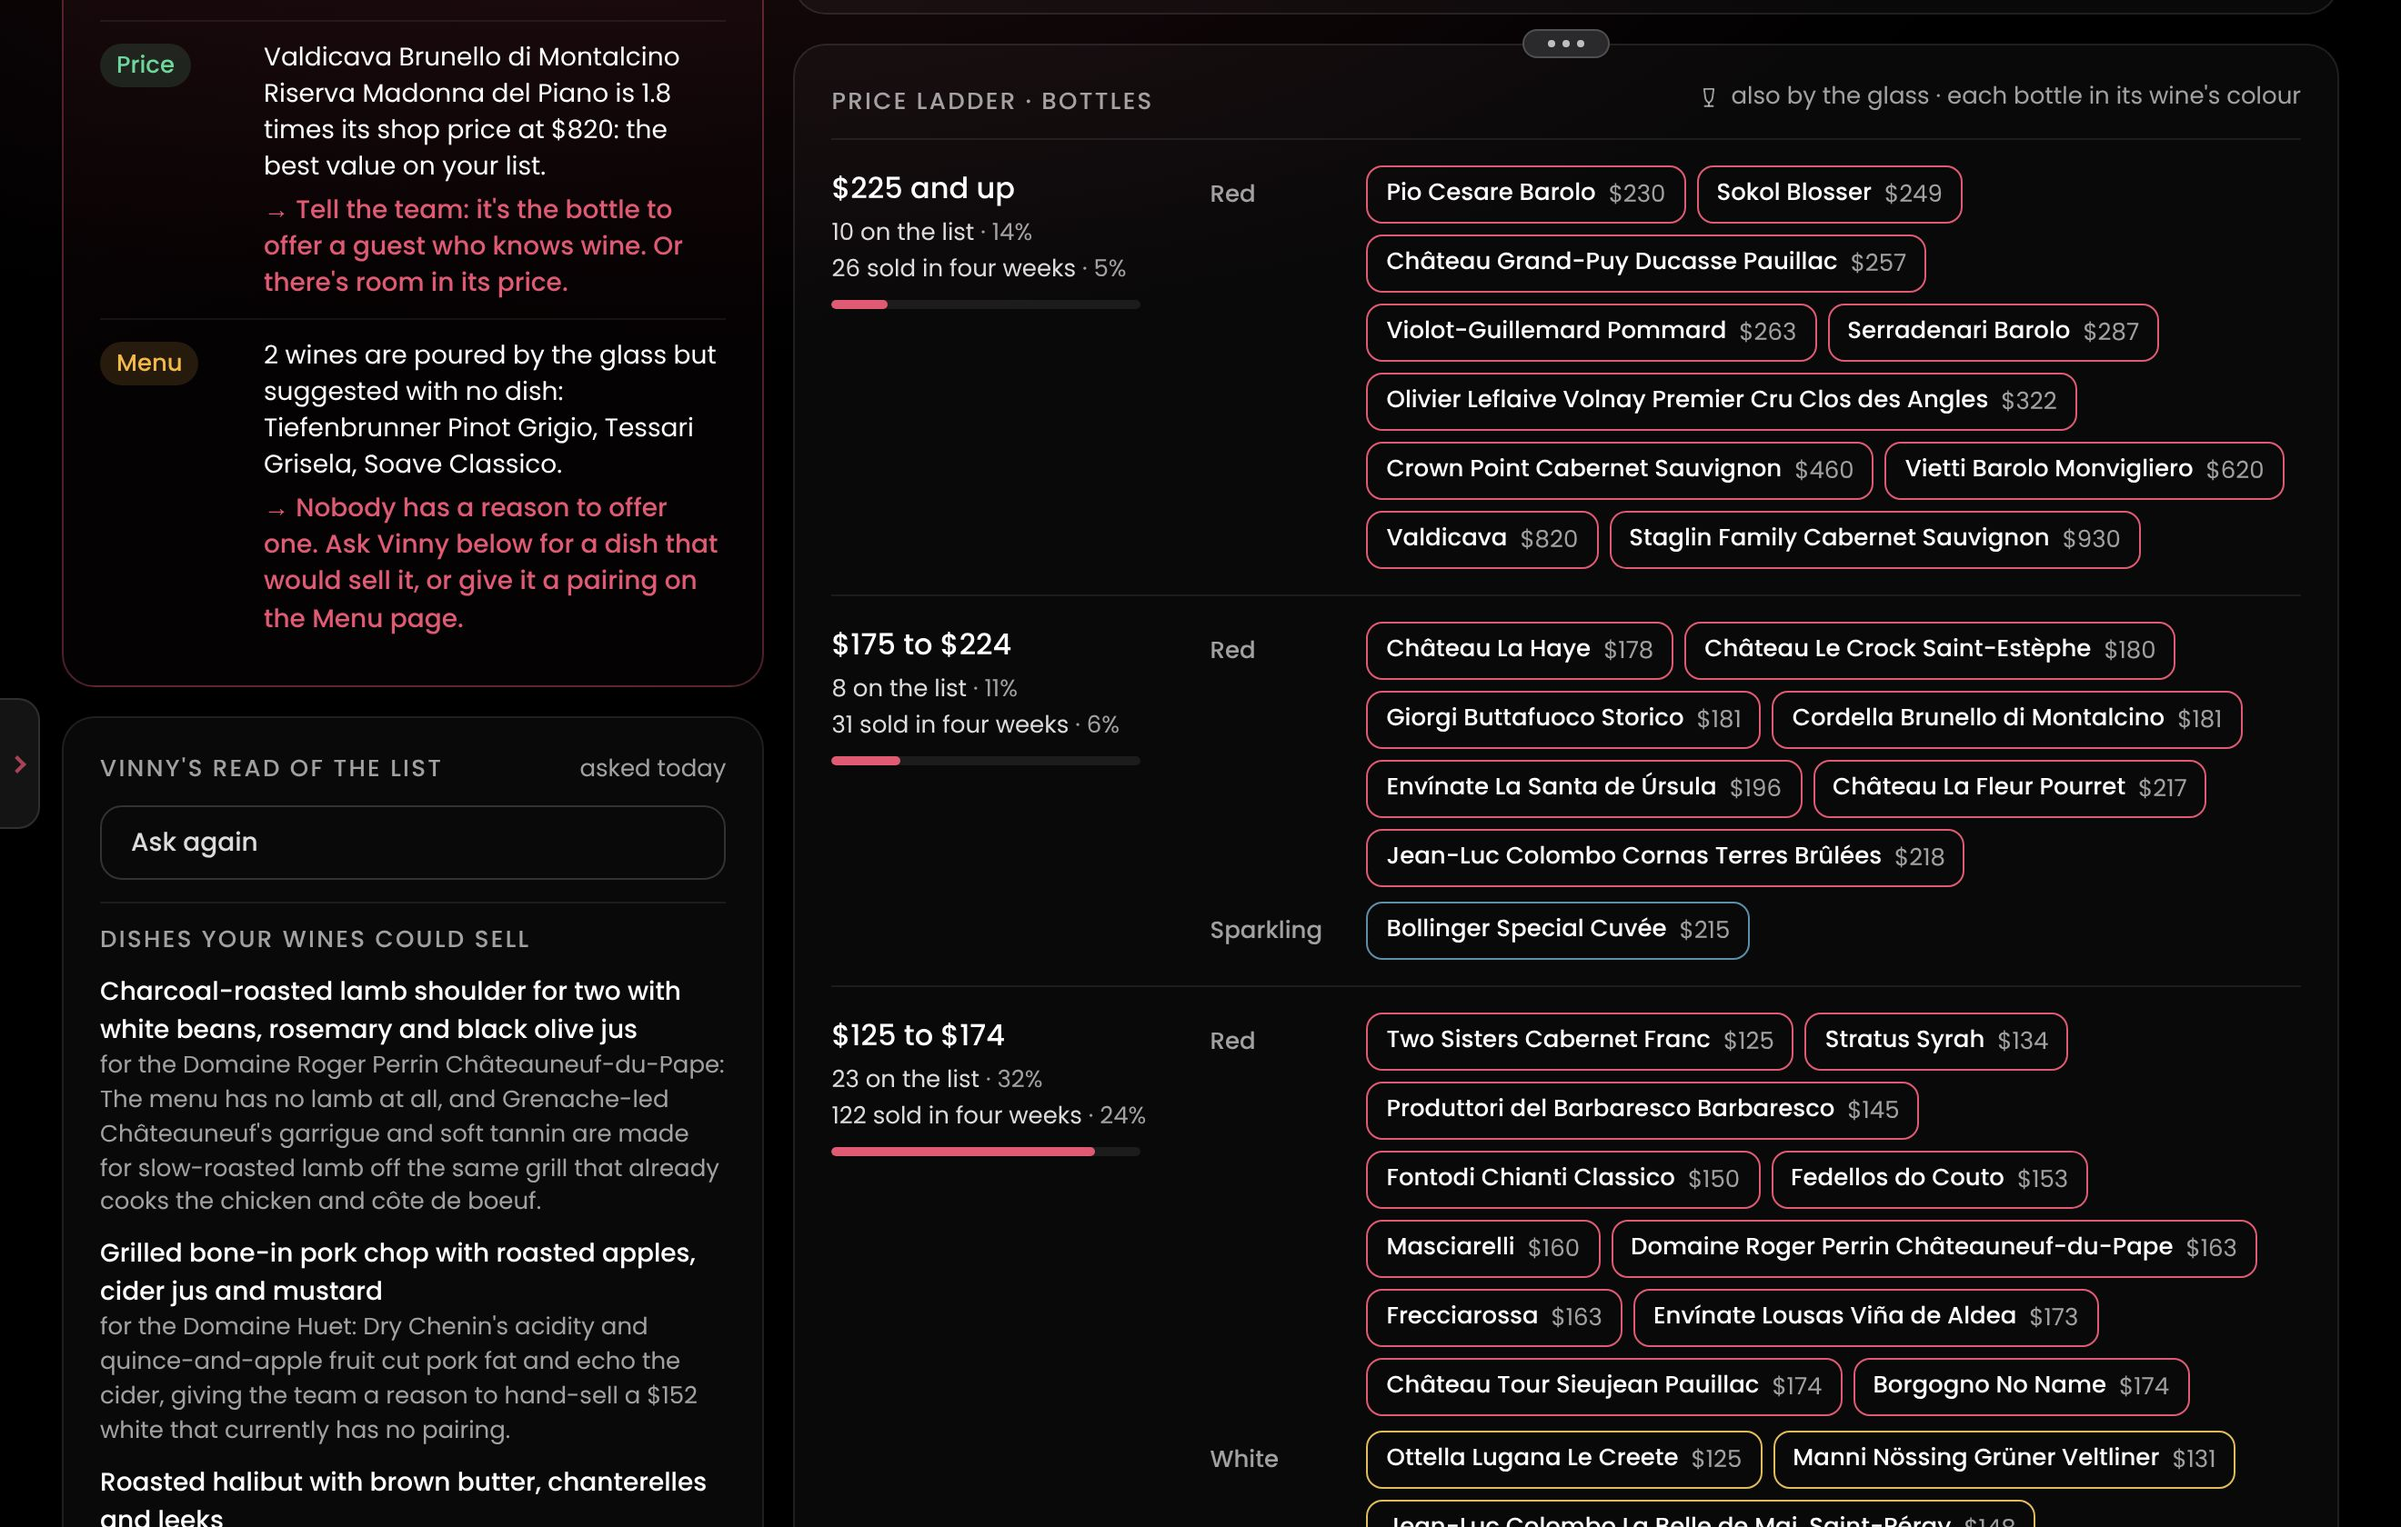
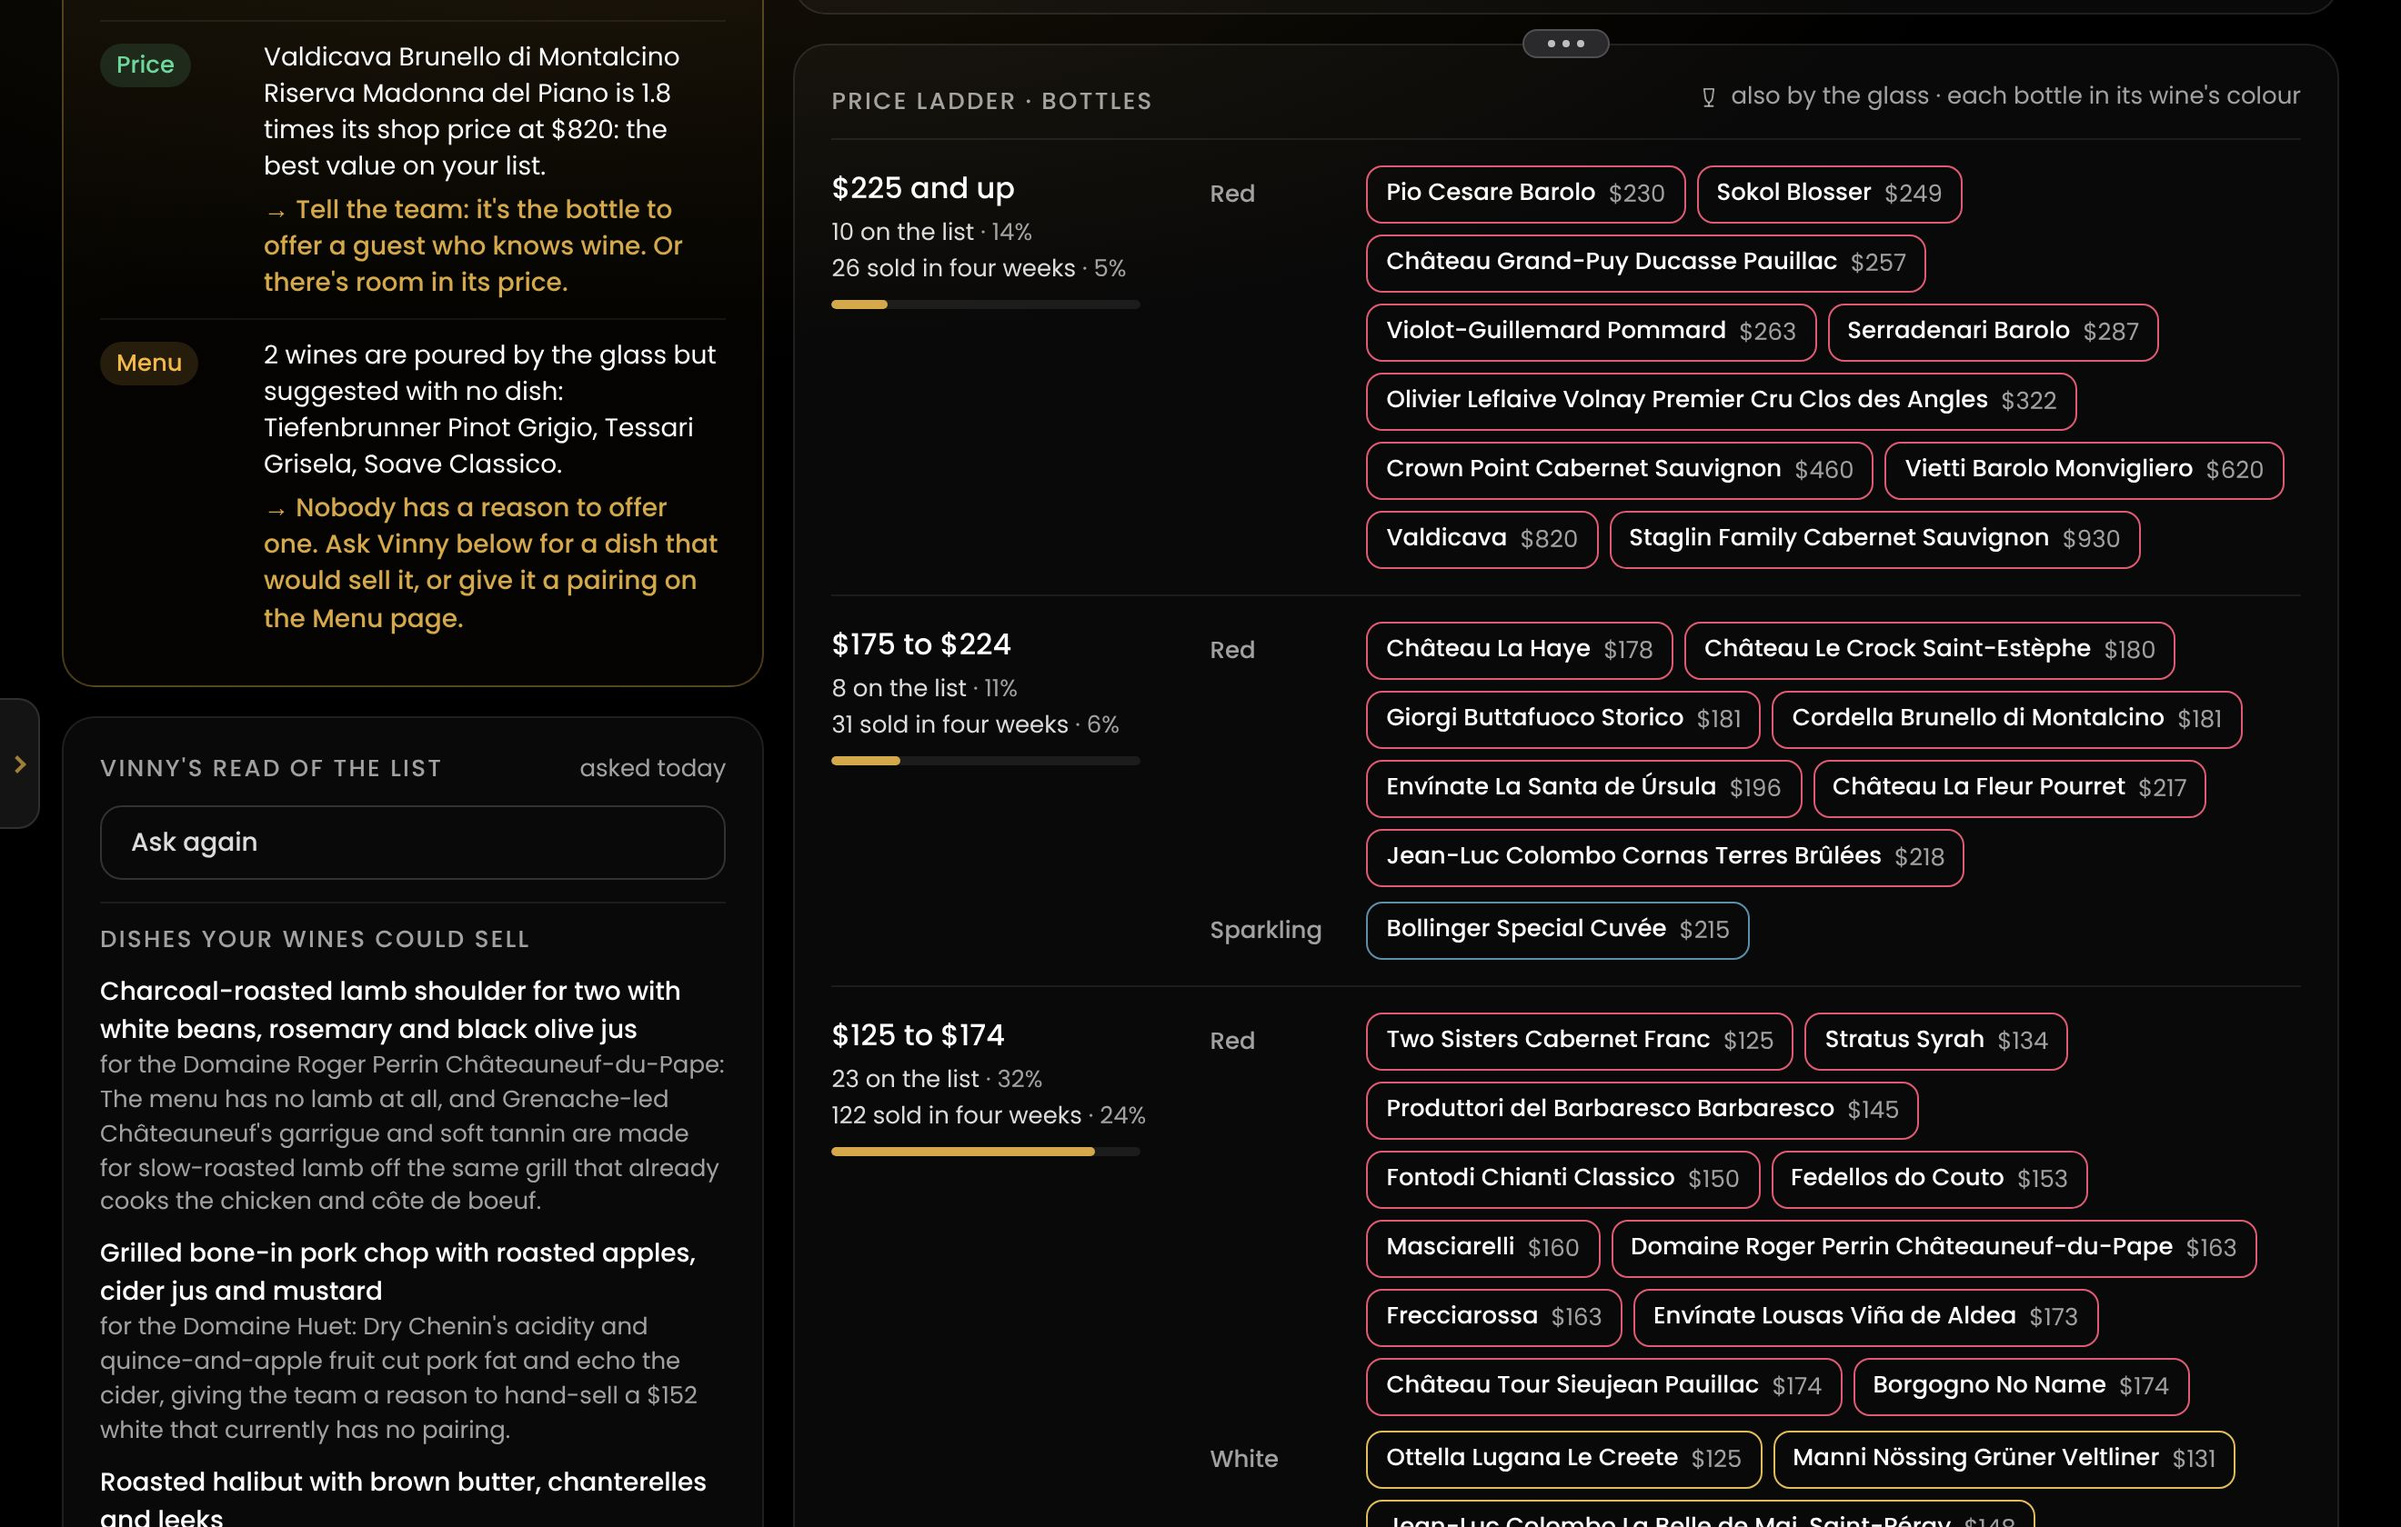
Eloise: a gold accent in place of the crimson
Its list file sets venue.brand.accent, with a new rev so a device already
holding Eloise picks it up. The page's console screenshots are retaken.

Claude-Session: https://claude.ai/code/session_015nNkSC9jKtEUbyvR3iygfE

diff --git a/docs/business.md b/docs/business.md
@@ -209,7 +209,7 @@ opens Eloise from the address). A new prospect who should get the same is a row 
 `venue.console.hide: ["sommelier"]`, so the console's Wines section opens on the wines without the Sommelier review card
 (our own check, whose held questions stay held); any install can set it. The allergens drafted from its menu are accepted in its
 training file (`allergens.confirmed`, by "Demo data") so Menu shows nothing to confirm; the kitchen hasn't confirmed them.
-It opens on the console's new look (`venue.console.look: "preview"` in its list file). Its training file also carries
+It opens on the console's new look (`venue.console.look: "preview"` in its list file), in gold (`venue.brand.accent` `#D4A84B`, Carey's choice over the crimson). Its training file also carries
 `buyer`, Vinny's read of the list as a buyer (`npm run team:buyer -- eloise`, one call through the production Worker,
 billed): shop prices in Ontario for 44 of the 76 wines (a usual markup of 3.2×), dishes the list could sell that the
 menu lacks, the two desserts it serves thinly, and four gaps (Champagne by the glass, a Niagara glass, a New World
